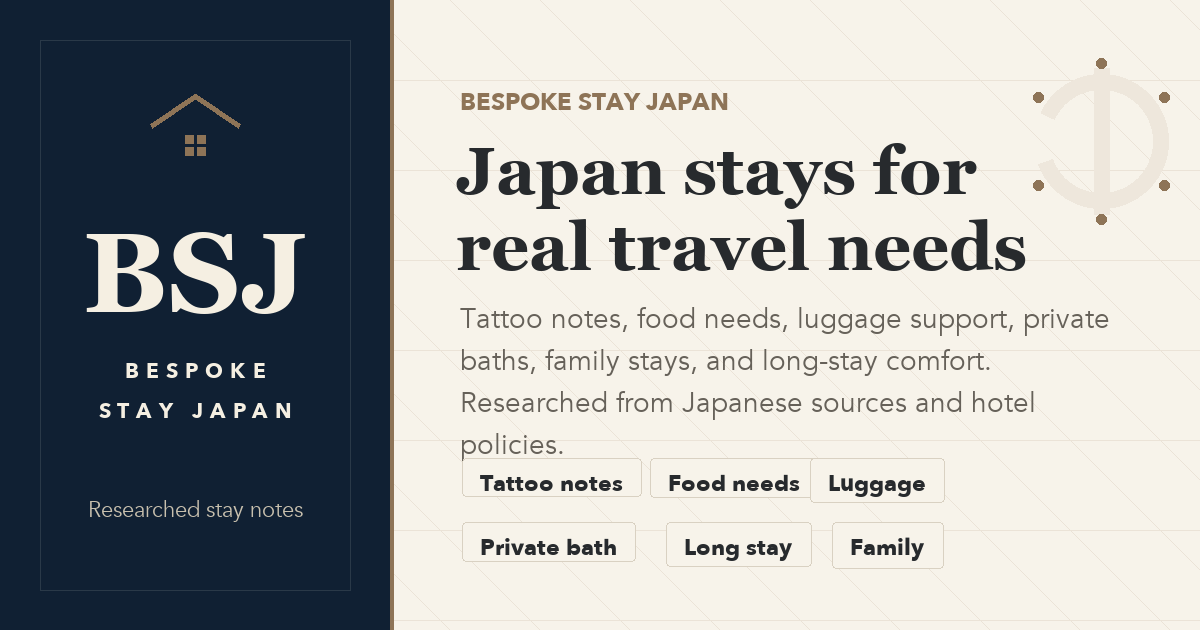
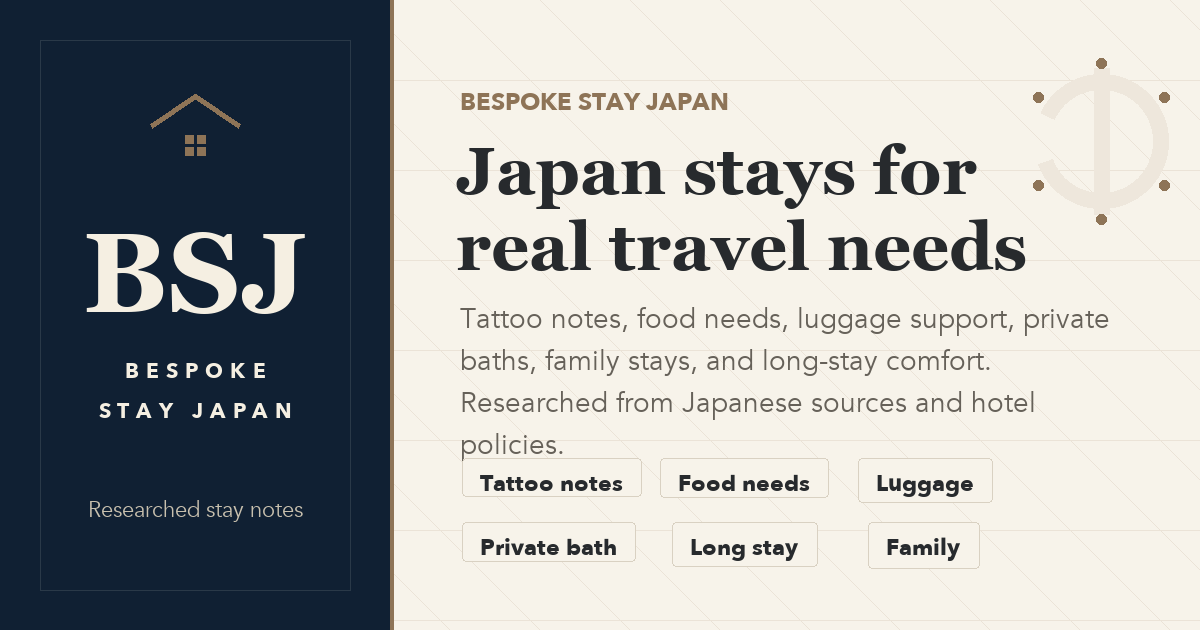
Fix beehiiv thumbnail label spacing

Changed region(s): [[0.555, 0.754, 0.8325, 0.8143], [0.555, 0.8444, 0.6783, 0.9048], [0.7092, 0.8444, 0.8017, 0.9048]]

diff --git a/scripts/generate_beehiiv_brand_assets.py b/scripts/generate_beehiiv_brand_assets.py
@@ -177,11 +177,11 @@ def generate_thumbnail() -> Path:
 
     labels = [
         ("Tattoo notes", 462, 458),
-        ("Food needs", 650, 458),
-        ("Luggage", 810, 458),
+        ("Food needs", 660, 458),
+        ("Luggage", 858, 458),
         ("Private bath", 462, 522),
-        ("Long stay", 666, 522),
-        ("Family", 832, 522),
+        ("Long stay", 672, 522),
+        ("Family", 868, 522),
     ]
     for text, x, ly in labels:
         draw_label(draw, x, ly, text)